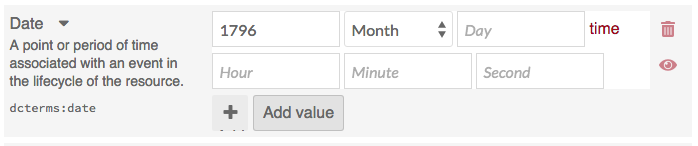
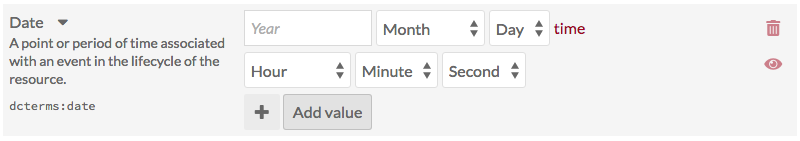
Numeric Data
Updating screenshots

diff --git a/docs/modules/numericdatatypes.md b/docs/modules/numericdatatypes.md
@@ -40,7 +40,7 @@ If you enter a day without a month, the day information will not be saved.
 
 ![Empty timestamp fields, for property Date](../modules/modulesfiles/ndt-timestamp1.png)
 
-Clicking on the "time" button to the right of the day input field will load additional fields for Hour, Minute, and Second. Note that there is no AM/PM option so you will want to use twenty-four hour time entries (14 for 2pm, etc)
+Clicking on the "time" button to the right of the day input field will load additional dropdown fields for Hour, Minute, and Second. Note that there is no AM/PM option so you will want to use twenty-four hour time entries (14 for 2pm, etc)
 
 ![Empty timestamp fields, for property Date, with a row of time entry options below the date entry options](../modules/modulesfiles/ndt-timestamp2.png)
 
@@ -49,7 +49,7 @@ Entries must be whole numbers, with no decimal points.
 ### Integer data
 An integer property has a narrow input which, once you have data in it, will display up and down arrows on the right hand side to  increase or decrease the value.
 
-![Field for property Spatial Coverage with the number 1 in the integer entry field, and up or down toggle button on the right side of the field](../modules/modulesfiles/ndt-timestamp2.png)
+![Field for property Spatial Coverage with the number 1 in the integer entry field, and up or down toggle button on the right side of the field](../modules/modulesfiles/ndt-integer.png)
 
 Your entry must be whole number; decimal points are not supported and will be rounded up to the nearest number. 
 
